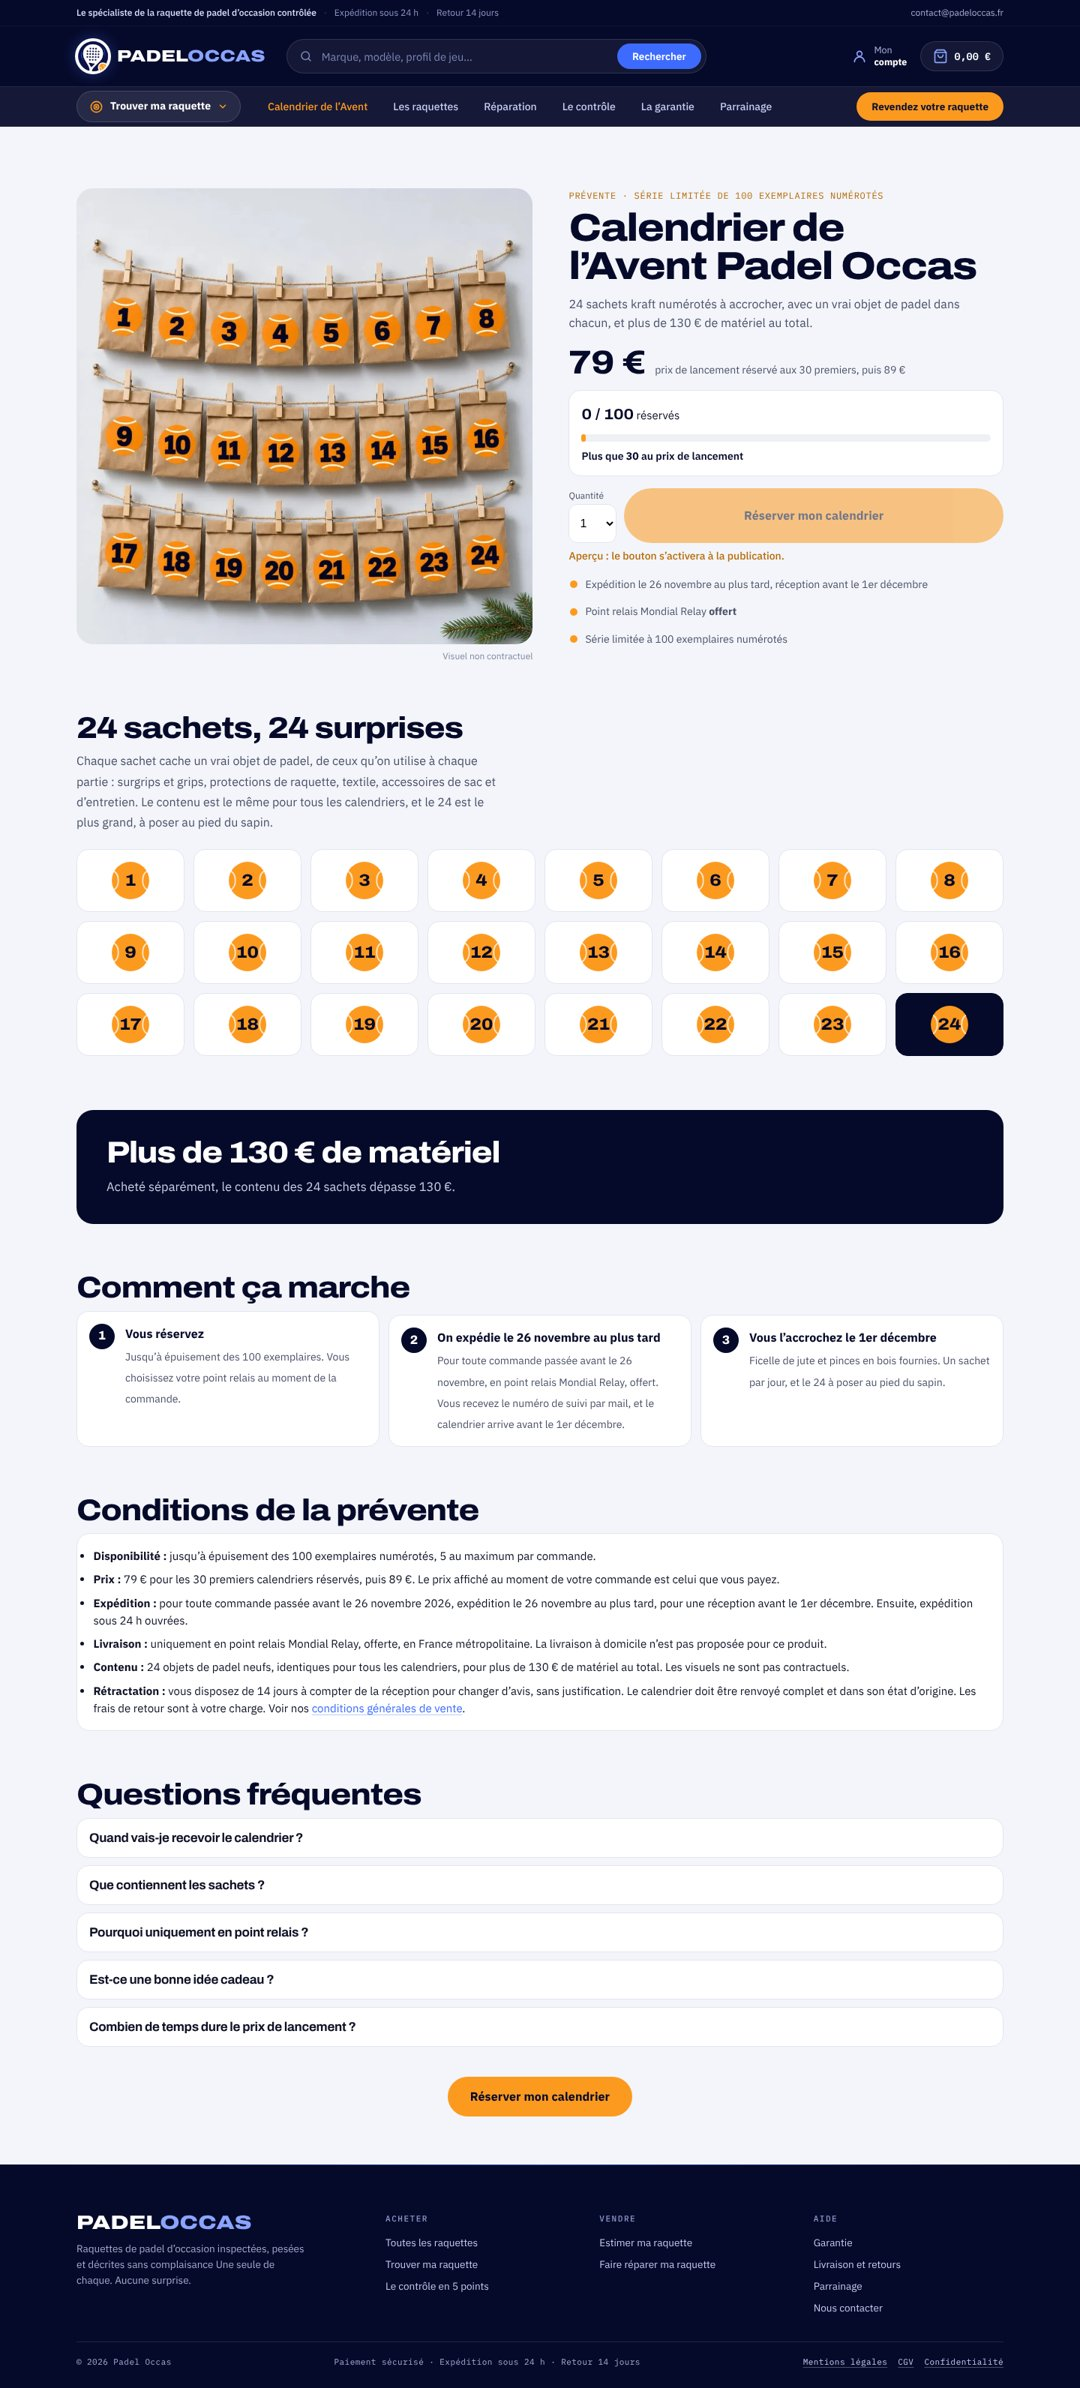
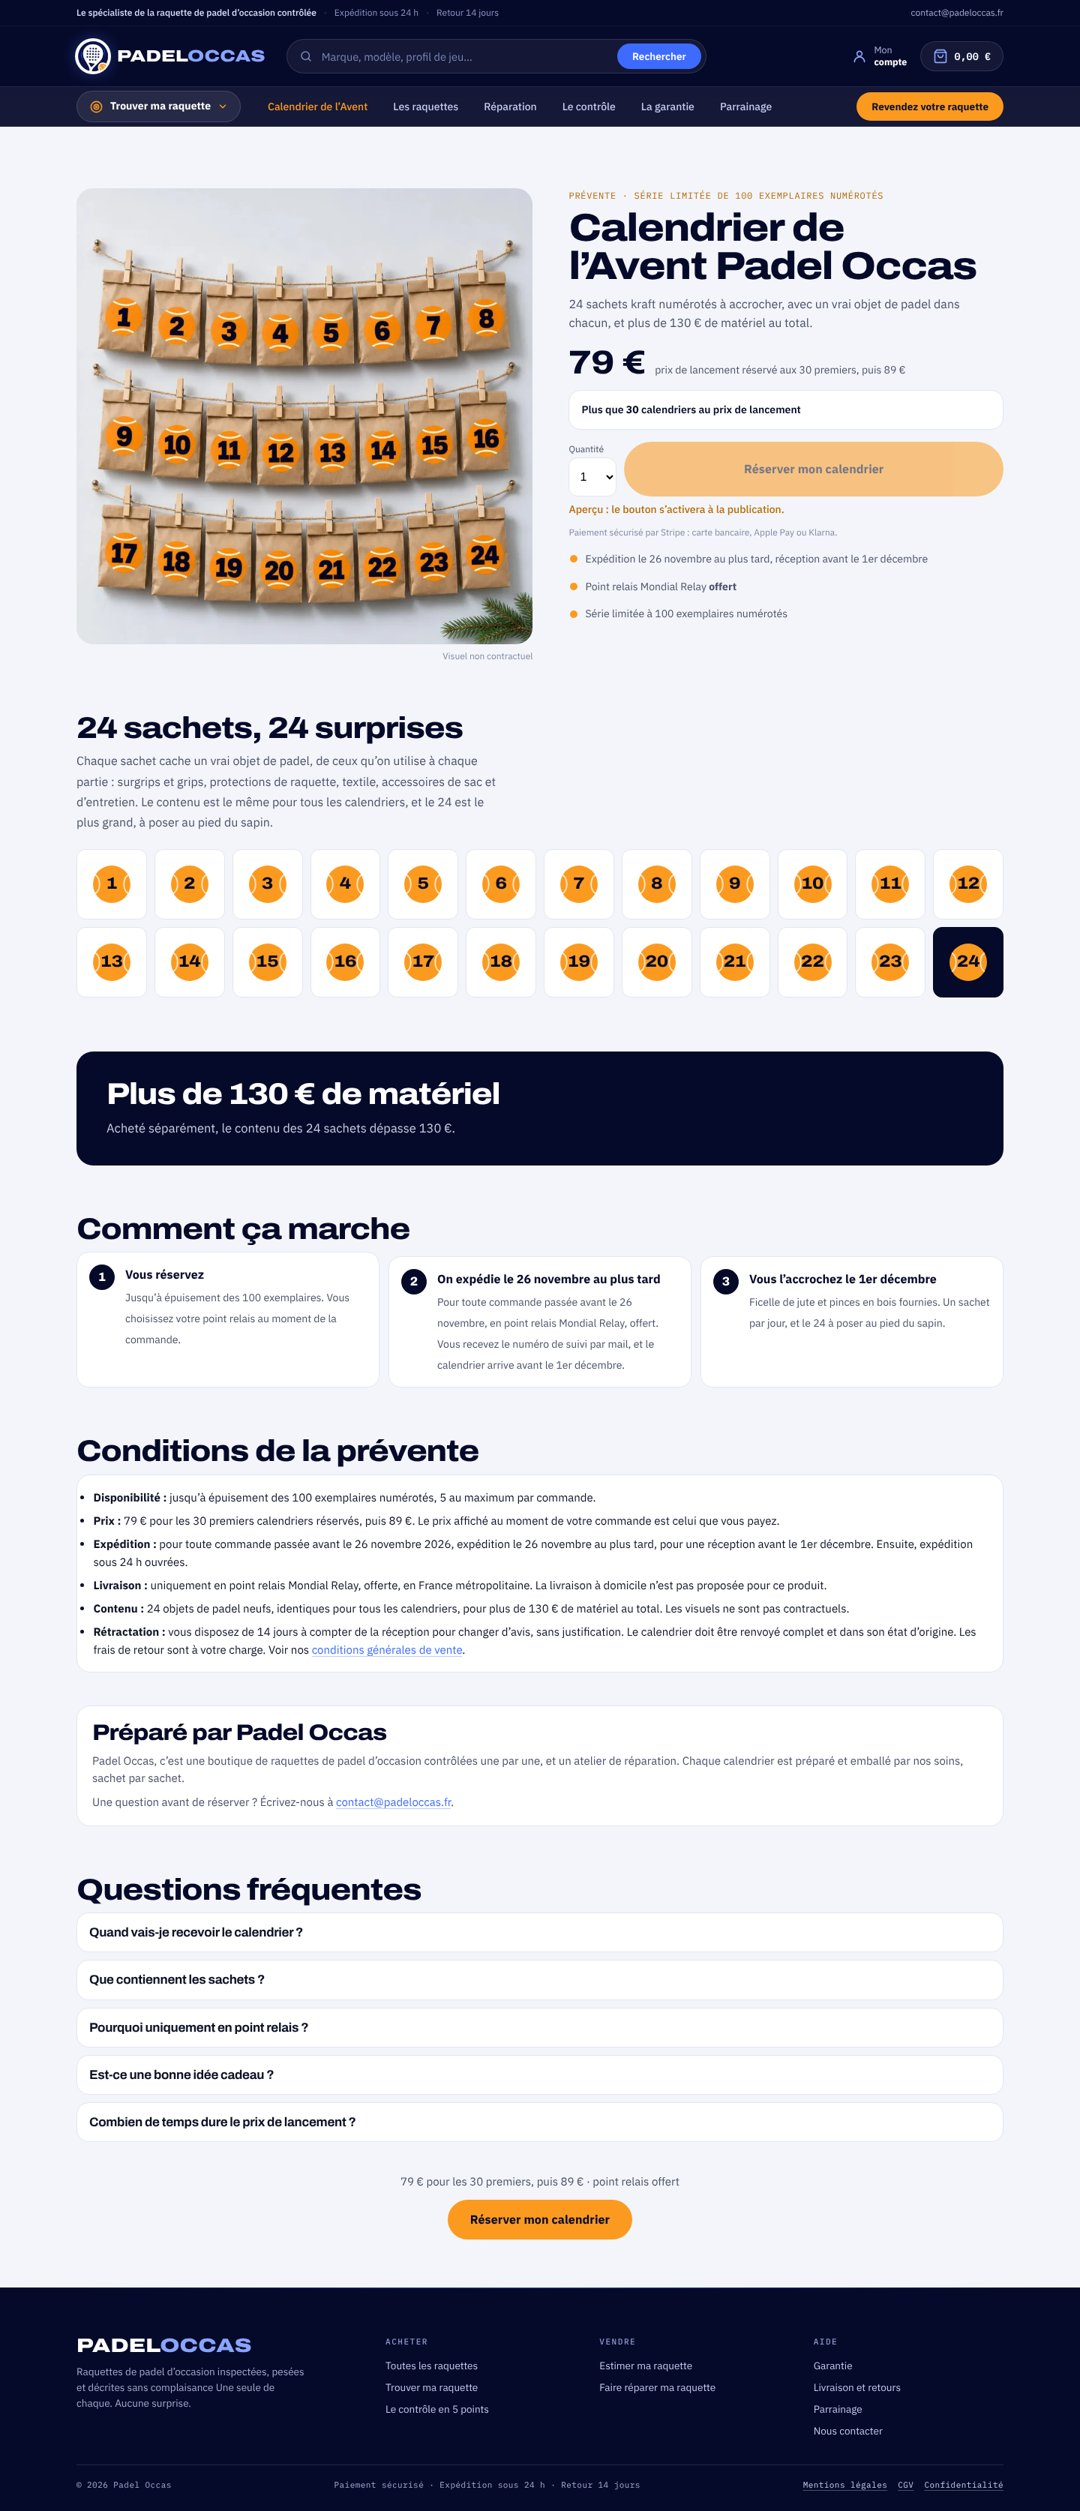
Calendrier de l'Avent v1.4.0 — compteur dès 10, barre mobile, paiement sécurisé, bloc équipe, grille compacte, aperçu de partage
Claude-Session: https://claude.ai/code/session_019D3zZFY3edwsYLJmSPcafF

Changed region(s): [[0.0611, 0.0, 0.9472, 0.8677], [0.0, 0.8677, 1.0, 0.9916]]

diff --git a/padel-occas-avent/page-calendrier-avent-padel.html b/padel-occas-avent/page-calendrier-avent-padel.html
@@ -34,11 +34,17 @@
 </ul>
 </section>
 
+<section class="poc-av-equipe" id="equipe">
+<h2>Préparé par Padel Occas</h2>
+<p>Padel Occas, c’est une boutique de raquettes de padel d’occasion contrôlées une par une, et un atelier de réparation. Chaque calendrier est préparé et emballé par nos soins, sachet par sachet.</p>
+<p>Une question avant de réserver ? Écrivez-nous à <a href="mailto:contact@padeloccas.fr">contact@padeloccas.fr</a>.</p>
+</section>
+
 <section class="poc-av-sec po-faq" id="questions">
 <h2>Questions fréquentes</h2>
 <!-- poc:faq --><details><summary><h3>Quand vais-je recevoir le calendrier ?</h3></summary><p>Pour toute commande passée avant le 26 novembre, il part le 26 novembre au plus tard en point relais Mondial Relay. Comptez 2 à 4 jours de transport : il arrive avant le 1er&nbsp;décembre. Vous recevez le numéro de suivi par mail dès l’expédition.</p></details><details><summary><h3>Que contiennent les sachets ?</h3></summary><p>Un vrai objet de padel dans chacun : surgrips et grips, protections de raquette, textile, accessoires de sac et d’entretien. On garde la surprise sur le détail, y compris pour le 24. Au total, plus de 130&nbsp;€ de matériel.</p></details><details><summary><h3>Pourquoi uniquement en point relais ?</h3></summary><p>C’est ce qui nous permet de vous offrir la livraison. Vous choisissez le point relais qui vous arrange au moment de la commande, près de chez vous ou de votre travail.</p></details><details><summary><h3>Est-ce une bonne idée cadeau ?</h3></summary><p>Oui, pour tout joueur ou joueuse de padel, débutant comme confirmé : ce sont des objets qu’on utilise à chaque partie. Pour l’offrir, choisissez un point relais proche de la personne et indiquez son nom comme destinataire.</p></details><details><summary><h3>Combien de temps dure le prix de lancement ?</h3></summary><p>Le prix de 79&nbsp;€ est réservé aux 30 premiers calendriers réservés. Ensuite, le calendrier passe à 89&nbsp;€. Le compteur en haut de page indique combien il en reste au prix de lancement.</p></details><!-- /poc:faq -->
 </section>
 
-<p class="poc-av-cta-bas"><a class="po-btn po-btn--rouge po-btn--lg" href="#reserver">Réserver mon calendrier</a></p>
+<p class="poc-av-cta-bas">[poc_avent_rappel]<a class="po-btn po-btn--rouge po-btn--lg" href="#reserver">Réserver mon calendrier</a></p>
 
 </div>

diff --git a/padel-occas-avent/padel-occas-avent.php b/padel-occas-avent/padel-occas-avent.php
@@ -2,7 +2,7 @@
 /**
  * Plugin Name: Padel Occas — Prévente Calendrier de l'Avent
  * Description: Prix de lancement automatique (79 € pour les 30 premiers, puis 89 €), compteur sur 100, vente jusqu'à épuisement, point relais seul et offert, grille des 24 sachets, lien d'aperçu secret, mise en avant accueil + menu.
- * Version:     1.3.0
+ * Version:     1.4.0
  * Author:      Padel Occas
  * License:     GPL v2 or later
  */
@@ -21,6 +21,7 @@ class POC_Avent_Config {
     const PRIX           = 89;                     // prix après les N premiers
     const EXPEDITION     = '2026-11-26';           // commandes passées avant : expédiées ce jour-là au plus tard
     const MAX_PAR_COMMANDE = 5;
+    const COMPTEUR_DES   = 10;   // « X / 100 réservés » affiché à partir de N réservations (un compteur à 0 rassure peu)
 
     // Interrupteurs. Mettre true au moment de publier, false pour retirer.
     const MISE_EN_AVANT  = false;  // bandeau sur l'accueil + lien dans le menu principal
@@ -73,12 +74,17 @@ class POC_Avent {
         add_filter( 'body_class',    [ $this, 'body_class' ] );
         add_action( 'wp_head',       [ $this, 'print_css' ], 30 );
         add_action( 'wp_body_open',  [ $this, 'home_banner' ] );
+        add_action( 'wp_footer',     [ $this, 'sticky_bar' ] );
+        add_filter( 'rank_math/frontend/description', [ $this, 'seo_description' ] );
+        add_filter( 'rank_math/opengraph/facebook/og_description', [ $this, 'seo_description' ] );
+        add_filter( 'rank_math/opengraph/twitter/twitter_description', [ $this, 'seo_description' ] );
         add_filter( 'wp_nav_menu_items', [ $this, 'menu_item' ], 10, 2 );
 
         add_shortcode( 'poc_avent_hero',   [ $this, 'sc_hero' ] );
         add_shortcode( 'poc_avent_grille', [ $this, 'sc_grille' ] );
         add_shortcode( 'poc_avent_valeur', [ $this, 'sc_valeur' ] );
         add_shortcode( 'poc_avent_visuel', [ $this, 'sc_visuel' ] );
+        add_shortcode( 'poc_avent_rappel', [ $this, 'sc_rappel' ] );
     }
 
     /* ── État de la prévente ──────────────────────────────────────────────── */
@@ -283,6 +289,40 @@ class POC_Avent {
         return $li . $items;
     }
 
+    /** Rappel de prix au-dessus du bouton du bas */
+    public function sc_rappel() {
+        $txt = self::launch_left() > 0
+            ? sprintf( '%s pour les %d premiers, puis %s · point relais offert', self::eur( POC_Avent_Config::PRIX_LANCEMENT ), POC_Avent_Config::LANCEMENT_QTE, self::eur( POC_Avent_Config::PRIX ) )
+            : sprintf( '%s · point relais offert', self::eur( POC_Avent_Config::PRIX ) );
+        return '<span class="poc-av-cta-bas__prix">' . esc_html( $txt ) . '</span>';
+    }
+
+    public function seo_description( $desc ) {
+        if ( ! self::is_sales_page() ) return $desc;
+        $prix = self::launch_left() > 0
+            ? sprintf( '%s pour les %d premiers', self::eur( POC_Avent_Config::PRIX_LANCEMENT ), POC_Avent_Config::LANCEMENT_QTE )
+            : self::eur( POC_Avent_Config::PRIX );
+        return 'Calendrier de l’Avent padel : 24 sachets kraft, un vrai objet de padel dans chacun, plus de 130 € de matériel. ' . $prix . ', point relais offert.';
+    }
+
+    /** Mobile : barre « prix + Réserver » fixée en bas, masquée quand le bouton principal est à l'écran */
+    public function sticky_bar() {
+        if ( ! self::is_sales_page() || ! self::is_open() ) return;
+        printf(
+            '<div class="poc-av-barre-fixe" hidden><span><strong>%s</strong>%s</span><a class="po-btn po-btn--rouge" href="#reserver">Réserver</a></div>',
+            esc_html( self::eur( self::unit_price() ) ),
+            self::launch_left() > 0 ? ' <small>prix de lancement</small>' : ''
+        );
+        ?>
+<script>
+(function(){var b=document.querySelector('.poc-av-barre-fixe'),f=document.querySelector('.poc-av-achat')||document.querySelector('#reserver'),c=document.querySelector('.poc-av-cta-bas');
+if(!b||!f||!('IntersectionObserver' in window))return;var vis={};
+var io=new IntersectionObserver(function(es){es.forEach(function(e){vis[e.target===f?'f':'c']=e.isIntersecting});b.hidden=!!(vis.f||vis.c)||window.scrollY<200;},{threshold:0});
+io.observe(f);if(c)io.observe(c);window.addEventListener('scroll',function(){if(window.scrollY<200)b.hidden=true;else if(!vis.f&&!vis.c)b.hidden=false;},{passive:true});})();
+</script>
+        <?php
+    }
+
     /* ── Blocs de la page ────────────────────────────────────────────────── */
 
     private static function ball( $n, $size = 'md' ) {
@@ -323,15 +363,21 @@ class POC_Avent {
               <?php if ( $left > 0 ) : ?><span class="poc-av-prix__note">prix de lancement réservé aux <?php echo (int) POC_Avent_Config::LANCEMENT_QTE; ?> premiers, puis <?php echo esc_html( self::eur( POC_Avent_Config::PRIX ) ); ?></span><?php endif; ?>
             </div>
 
+            <?php $show_total = $sold >= POC_Avent_Config::COMPTEUR_DES; $show_left = $left > 0 && self::is_open(); ?>
+            <?php if ( $show_total || $show_left ) : ?>
             <div class="poc-av-compteur">
-              <div class="poc-av-compteur__ligne"><strong><?php echo (int) $sold; ?> / <?php echo (int) $total; ?></strong> réservés</div>
-              <div class="poc-av-barre" role="progressbar" aria-valuemin="0" aria-valuemax="<?php echo (int) $total; ?>" aria-valuenow="<?php echo (int) $sold; ?>"><span style="width:<?php echo (int) $pct; ?>%"></span></div>
-              <?php if ( $left > 0 && self::is_open() ) : ?>
-                <p class="poc-av-compteur__reste">Plus que <strong><?php echo (int) $left; ?></strong> au prix de lancement</p>
+              <?php if ( $show_total ) : ?>
+                <div class="poc-av-compteur__ligne"><strong><?php echo (int) $sold; ?> / <?php echo (int) $total; ?></strong> réservés</div>
+                <div class="poc-av-barre" role="progressbar" aria-valuemin="0" aria-valuemax="<?php echo (int) $total; ?>" aria-valuenow="<?php echo (int) $sold; ?>"><span style="width:<?php echo (int) $pct; ?>%"></span></div>
+              <?php endif; ?>
+              <?php if ( $show_left ) : ?>
+                <p class="poc-av-compteur__reste">Plus que <strong><?php echo (int) $left; ?></strong> calendriers au prix de lancement</p>
               <?php endif; ?>
             </div>
+            <?php endif; ?>
 
             <?php echo $this->buy_form( $p ); ?>
+            <p class="poc-av-paiement">Paiement sécurisé par Stripe : carte bancaire, Apple Pay ou Klarna.</p>
 
             <ul class="poc-av-rassure">
               <li><?php echo esc_html( self::shipping_text() ); ?></li>
@@ -447,22 +493,33 @@ class POC_Avent {
 .poc-av-qte select{height:52px;min-width:64px;border:1px solid var(--av-line);border-radius:12px;padding:0 10px;font-size:16px;background:#fff}
 .poc-av-achat .po-btn{flex:1;min-height:56px;font-size:16px}
 .poc-av-achat .po-btn[disabled]{opacity:.55;cursor:not-allowed}
+.poc-av-paiement{margin:8px 0 0;font-size:12px;color:#828AA3}
+.poc-av-barre-fixe{position:fixed;left:0;right:0;bottom:0;z-index:90;display:flex;align-items:center;justify-content:space-between;gap:12px;padding:10px 16px calc(10px + env(safe-area-inset-bottom));background:rgba(6,10,42,.96);color:#fff;box-shadow:0 -6px 20px rgba(6,10,42,.18)}
+.poc-av-barre-fixe[hidden]{display:none}
+.poc-av-barre-fixe strong{font-family:"Archivo",sans-serif;font-variation-settings:"wdth" 112;font-size:22px}
+.poc-av-barre-fixe small{font-size:12px;color:#C9CFE4;margin-left:4px}
+.poc-av-barre-fixe .po-btn{padding:12px 22px}
+body.po-r .poc-av-barre-fixe a.po-btn{color:var(--av-nuit);text-decoration:none}
+@media (max-width:959px){body.poc-av-page{padding-bottom:72px}}
+@media (min-width:960px){.poc-av-barre-fixe{display:none!important}}
 .poc-av-statut{margin:6px 0 0;font-size:14px;font-weight:600}
 .poc-av-statut--apercu{color:#B86A06;font-weight:500}
 .poc-av-rassure{list-style:none;padding:0!important;margin:14px 0 0;display:grid;gap:8px;font-size:14px;color:var(--av-ink2)}
 .poc-av-rassure li{position:relative;padding-left:22px}
 .poc-av-rassure li::before{content:"";position:absolute;left:2px;top:.45em;width:10px;height:10px;border-radius:50%;background:var(--av-orange)}
 
-.poc-av-grille{list-style:none;padding:0!important;margin:0;display:grid;grid-template-columns:repeat(4,1fr);gap:8px}
+.poc-av-grille{list-style:none;padding:0!important;margin:0;display:grid;grid-template-columns:repeat(6,1fr);gap:6px}
 .poc-av-grille li+li{margin-top:0}
-.poc-av-jour{background:#fff;border:1px solid var(--av-line);border-radius:16px;padding:12px 6px;display:flex;flex-direction:column;align-items:center;justify-content:center;text-align:center;gap:6px;min-height:84px}
+.poc-av-jour{background:#fff;border:1px solid var(--av-line);border-radius:12px;padding:6px 2px;display:flex;flex-direction:column;align-items:center;justify-content:center;text-align:center;gap:6px;aspect-ratio:1/1}
 .poc-av-jour__objet{font-size:13px;line-height:1.3;color:var(--av-ink2)}
 .poc-av-jour--24{background:var(--av-nuit);border-color:var(--av-nuit)}
 .poc-av-jour--24 .poc-av-jour__objet{color:#fff;font-weight:600;font-size:11px;line-height:1.25}
-.poc-av-balle{position:relative;display:inline-block;width:52px;height:52px;flex:none}
+.poc-av-balle{position:relative;display:inline-block;width:40px;height:40px;flex:none}
+@media (min-width:600px){.poc-av-balle{width:52px;height:52px}}
 .poc-av-balle--lg{width:72px;height:72px}
 .poc-av-balle svg{display:block;width:100%;height:100%}
-.poc-av-balle b{position:absolute;inset:0;display:flex;align-items:center;justify-content:center;font-family:"Archivo",sans-serif;font-variation-settings:"wdth" 112;font-weight:800;font-size:22px;color:var(--av-nuit)}
+.poc-av-balle b{position:absolute;inset:0;display:flex;align-items:center;justify-content:center;font-family:"Archivo",sans-serif;font-variation-settings:"wdth" 112;font-weight:800;font-size:17px;color:var(--av-nuit)}
+@media (min-width:600px){.poc-av-balle b{font-size:22px}}
 .poc-av-balle--lg b{font-size:30px}
 
 .poc-av-valeur{margin-top:44px;background:var(--av-nuit);color:#fff;border-radius:22px;padding:26px 20px}
@@ -490,14 +547,19 @@ class POC_Avent {
 .poc-av .po-faq details p{margin:0 0 16px;color:var(--av-ink2);font-size:15px;line-height:1.55}
 
 .poc-av-cta-bas{margin-top:40px;text-align:center}
+.poc-av-equipe{margin-top:44px;background:#fff;border:1px solid var(--av-line);border-radius:18px;padding:20px}
+.poc-av-equipe h2{font-size:clamp(22px,5vw,30px)}
+.poc-av-equipe p{margin:0;color:var(--av-ink2);font-size:15px;line-height:1.55}
+.poc-av-equipe p+p{margin-top:8px}
+.poc-av-cta-bas__prix{display:block;margin-bottom:12px;font-size:15px;color:var(--av-ink2)}
 body.po-r .poc-av a.po-btn,body.po-r .poc-av a.po-btn:hover{color:var(--av-nuit);text-decoration:none}
 .poc-av-page .po-contenu>p:empty{display:none}
 
-@media (min-width:600px){.poc-av-grille{grid-template-columns:repeat(6,1fr)}}
+@media (min-width:600px){.poc-av-grille{grid-template-columns:repeat(8,1fr);gap:10px}}
 @media (min-width:960px){
   .poc-av-hero{grid-template-columns:minmax(0,1.05fr) minmax(0,1fr);gap:48px;align-items:start;padding-top:24px}
   .poc-av-hero__visuel{position:sticky;top:24px}
-  .poc-av-grille{grid-template-columns:repeat(8,1fr);gap:12px}
+  .poc-av-grille{grid-template-columns:repeat(12,1fr);gap:10px}
   .poc-av-etapes{grid-template-columns:repeat(3,1fr)}
   .poc-av-sec{padding-top:64px}
   .poc-av-valeur{padding:36px 40px}
